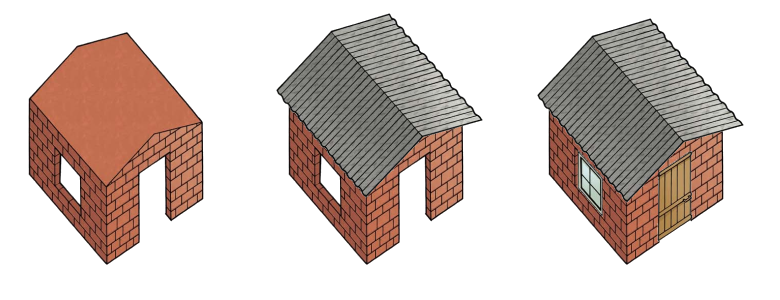
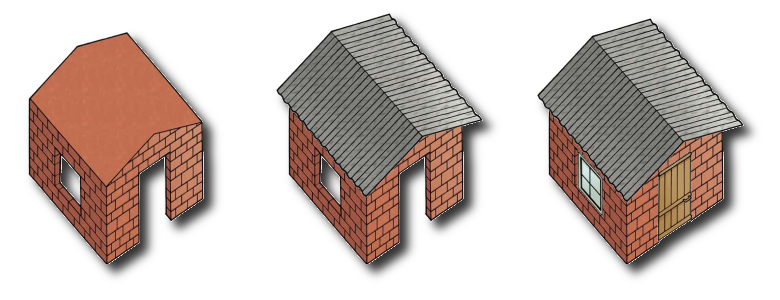
Added shadow effect to some images.

diff --git a/src/Foodforce2.py b/src/Foodforce2.py
@@ -130,8 +130,7 @@ def safe_exit(button = None):
     #print 'in safe_exit'
     #print 'in safe_exit'
     threades.GAME_EXIT_FLAG = True
-    if update_thread:
-        update_thread.join()
+    
     if message_thread:
         message_thread.join()
     sleep(1)
@@ -375,6 +374,7 @@ class starting_intro:
 
         self.next_button.onClick = self.increaseInstructionsCounter
         self.prev_button.onClick = self.decreaseInstructionsCounter
+        self.prev_button.enabled = False
         self.skip_button.onClick = self.close_win
         self.instructions_run = True
         logo =  pygame.image.load(os.path.join('data', 'logo.png')).convert()
@@ -417,12 +417,18 @@ class starting_intro:
             pygame.display.update()
             
     def increaseInstructionsCounter(self,button = None):
+        self.prev_button.enabled = True
         if self.instructions_counter < len(texts.instruction_text)-1:
             self.instructions_counter +=1
+        if self.instructions_counter == len(texts.instruction_text)-1:
+            self.next_button.enabled = False
     
     def decreaseInstructionsCounter(self,button = None):
+        self.next_button.enabled = True
         if self.instructions_counter > 0 :
             self.instructions_counter -=1
+        if self.instructions_counter == 0:
+            self.prev_button.enabled = False
         
 
             
@@ -566,7 +572,7 @@ class starting_intro:
         labelStyleCopy['wordwrap'] = True
         labelStyleCopy['autosize'] = False
         labelStyleCopy['font'] = myfont2
-        labelStyleCopy['font-color'] = self.lightgreen_color
+        labelStyleCopy['font-color'] = self.green_color
         labelStyleCopy['border-color'] = self.black_color
         self.message_label = gui.Label(position = threades.resize_pos((80,80),(600.0,600.0),self.win.size),size = threades.resize_pos((240,70),(600.0,600.0),self.win.size), parent = self.win, text = "Build ", style = labelStyleCopy)
         self.message_label = gui.Label(position = threades.resize_pos((80,130),(600.0,600.0),self.win.size),size = threades.resize_pos((240,70),(600.0,600.0),self.win.size), parent = self.win, text = "Upgrade ", style = labelStyleCopy)
@@ -708,6 +714,8 @@ def facility_placement():
     if y > threades.resize_pt_y(600):
         pygame.mouse.set_pos(x,threades.resize_pt_y(600))
     
+    x -= width_temp/2
+    y -= height_temp/2
     rect = (x,y,width,height)
     rect_temp = (x,y,width_temp,height_temp)
     rect_obj = pygame.Rect(rect)
@@ -732,14 +740,12 @@ def facility_placement():
         threades.set_build_facility_placement_flag()
         gui_buttons.gui_obj.setup_button.enabled = True
             
-update_thread = None
 message_thread = None
 def main():
 
     global panel
     global chat_screen
     global level_setting
-    global update_thread
     global message_thread
     
     cursor = pygame.cursors.load_xbm(os.path.join('art', 'ff2_cursor.xbm'),os.path.join('art', 'ff2_cursor-mask.xbm'))
@@ -781,20 +787,18 @@ def main():
     animation_obj = threades.Animation()
     animation_obj.update()
     # Starting of the threads
-    update_thread = threading.Thread(target = threades.update_turn, args=[])
-    update_thread.start()
     #print update_thread
     message_thread = threading.Thread(target = message_window, args=[])
     message_thread.start()
     mouse_flag = False
     chat_screen=chat.chat()
         
-    
+    clock = pygame.time.Clock()
     # The main infinite loop
     while True:
-        #clock.tick()
+        time_passed = clock.tick(3)
         model.game_controller.update_level_time(threades.update_thread_pause)
-        
+        threades.update_turn(time_passed)
         animation_obj.update()
 
 
@@ -803,23 +807,24 @@ def main():
         (x,y) = (0,0)
         x,y = pygame.mouse.get_pos()
         
-        if len(threades.buildFacilityPlacementFlag):
-            facility_placement()               
-        if (x > (threades.resize_pt_x(890)) and x < threades.resize_pt_x(930)):
-            threades.transform_obj.move_free((-10,0))
-            
-        if x < threades.resize_pt_x(60) :
-            threades.transform_obj.move_free((10,0))
-            
-        if  y > threades.resize_pt_y(560) and y< threades.resize_pt_y(600):
-            threades.transform_obj.move_free((0,-10))
-            
-        if y < threades.resize_pt_y(60):
-            threades.transform_obj.move_free((0,10))
-            
-        if (x > threades.resize_pt_x(0)) and (x < threades.resize_pt_x(600)) and (y > threades.resize_pt_y(845)) and (y < threades.resize_pt_y(900)):
-            mouse_flag = True
-            
+        if not gui_buttons.gui_obj.get_win_flag():
+            if len(threades.buildFacilityPlacementFlag):
+                facility_placement()               
+            if (x > (threades.resize_pt_x(890)) and x < threades.resize_pt_x(930)) and y< threades.resize_pt_y(600):
+                threades.transform_obj.move_free((-10,0))
+                
+            if x < threades.resize_pt_x(60) and y< threades.resize_pt_y(600):
+                threades.transform_obj.move_free((10,0))
+                
+            if  y > threades.resize_pt_y(560) and y< threades.resize_pt_y(600) and x < threades.resize_pt_x(930):
+                threades.transform_obj.move_free((0,-10))
+                
+            if y < threades.resize_pt_y(60) and x < threades.resize_pt_x(930) and x < threades.resize_pt_x(930):
+                threades.transform_obj.move_free((0,10))
+                
+            if (x > threades.resize_pt_x(0)) and (x < threades.resize_pt_x(600)) and (y > threades.resize_pt_y(845)) and (y < threades.resize_pt_y(900)):
+                mouse_flag = True
+                
         pygame.display.set_caption('FoodForce2')
 
         for e in gui.setEvents(pygame.event.get()):

diff --git a/src/load_images.py b/src/load_images.py
@@ -43,13 +43,16 @@ class Spritesheet:
         @type colorkey integer
         """
         rect = Rect(rect)
-        image = pygame.Surface(rect.size).convert()
-        image.blit(self.sheet, (0, 0), rect)
-        
+        #print rect
+        image = self.sheet.subsurface(rect)
+        #image.blit(self.sheet, (0, 0), rect)
+        '''
         if colorkey is not None:
             if colorkey is -1:
                 colorkey = image.get_at((0, 0))
+                
             image.set_colorkey(colorkey, RLEACCEL)
+        '''
         return image
             
     def imgsat(self, rects, colorkey = None):
@@ -130,9 +133,9 @@ def load_images():
     
     # Loading images of People
     ss = Spritesheet('People.png')
-    Man_tiles.append(ss.imgsat([(0,0,60,115),(60,1,60,115),(120,0,60,115),(60,1,60,115),    (0,117,60,113),(62,117,60,115),(120,117,60,112),(62,117,60,113),  (172,116,60,115),(172,116,60,115),(172,116,60,115),(172,116,60,115),  (170,0,60,115),(170,0,60,115),(170,0,60,115),(170,0,60,115)],-1))
+    Man_tiles.append(ss.imgsat([(0,0,60,115),(60,1,60,115),(120,0,60,115),(60,1,60,115),    (0,117,60,113),(62,117,60,113),(120,117,60,112),(62,117,60,113),  (172,116,60,114),(172,116,60,114),(172,116,60,114),(172,116,60,114),  (170,0,60,115),(170,0,60,115),(170,0,60,115),(170,0,60,115)],-1))
     
-    Woman_tiles.append(ss.imgsat([(225,0,60,115),(287,0,60,115),(346,0,60,115),(287,0,60,115),  (230,117,60,115),(288,117,60,115),(343,117,60,115),(288,117,60,115),  (398,115,60,115),(398,115,60,115),(398,115,60,115),(398,115,60,115),  (397,0,60,115),(397,0,60,115),(397,0,60,115),(397,0,60,115)],-1))
+    Woman_tiles.append(ss.imgsat([(225,0,60,115),(287,0,60,115),(346,0,60,115),(287,0,60,115),  (230,117,60,113),(288,117,60,113),(343,117,60,113),(288,117,60,113),  (398,115,60,115),(398,115,60,115),(398,115,60,115),(398,115,60,115),  (397,0,60,115),(397,0,60,115),(397,0,60,115),(397,0,60,115)],-1))
     
     Boy_tiles.append(ss.imgsat([(455,26,45,74),(517,26,45,74),(575,26,45,74),(517,26,45,74),  (455,130,45,74),(517,130,45,74),(575,130,45,74),(517,130,45,74),  (621,133,45,74),(621,133,45,74),(621,133,45,74),(621,133,45,74),  (621,26,45,74),(621,26,45,74),(621,26,45,74),(621,26,45,74)],-1))
     
@@ -297,9 +300,9 @@ def load_images_ppl():
     
     # Loading images of People
     ss = Spritesheet('People.png')
-    Man_tiles.append(ss.imgsat([(0,0,60,115),(60,1,60,115),(120,0,60,115),(60,1,60,115),    (0,117,60,113),(62,117,60,115),(120,117,60,112),(62,117,60,113),  (172,116,60,115),(172,116,60,115),(172,116,60,115),(172,116,60,115),  (170,0,60,115),(170,0,60,115),(170,0,60,115),(170,0,60,115)],-1))
+    Man_tiles.append(ss.imgsat([(0,0,60,115),(60,1,60,115),(120,0,60,115),(60,1,60,115),    (0,117,60,113),(62,117,60,113),(120,117,60,112),(62,117,60,113),  (172,116,60,114),(172,116,60,114),(172,116,60,114),(172,116,60,114),  (170,0,60,115),(170,0,60,115),(170,0,60,115),(170,0,60,115)],-1))
     
-    Woman_tiles.append(ss.imgsat([(225,0,60,115),(287,0,60,115),(346,0,60,115),(287,0,60,115),  (230,117,60,115),(288,117,60,115),(343,117,60,115),(288,117,60,115),  (398,115,60,115),(398,115,60,115),(398,115,60,115),(398,115,60,115),  (397,0,60,115),(397,0,60,115),(397,0,60,115),(397,0,60,115)],-1))
+    Woman_tiles.append(ss.imgsat([(225,0,60,115),(287,0,60,115),(346,0,60,115),(287,0,60,115),  (230,117,60,113),(288,117,60,113),(343,117,60,113),(288,117,60,113),  (398,115,60,115),(398,115,60,115),(398,115,60,115),(398,115,60,115),  (397,0,60,115),(397,0,60,115),(397,0,60,115),(397,0,60,115)],-1))
     
     Boy_tiles.append(ss.imgsat([(455,26,45,74),(517,26,45,74),(575,26,45,74),(517,26,45,74),  (455,130,45,74),(517,130,45,74),(575,130,45,74),(517,130,45,74),  (621,133,45,74),(621,133,45,74),(621,133,45,74),(621,133,45,74),  (621,26,45,74),(621,26,45,74),(621,26,45,74),(621,26,45,74)],-1))
     

diff --git a/src/threades.py b/src/threades.py
@@ -57,7 +57,7 @@ except:
     
     new_screen_size = [800,600]
     
-#new_screen_size = [800,600]
+#new_screen_size = [1200,900]
 
 global screen   
 if model.FLAG_XO:
@@ -659,8 +659,8 @@ def calculate_indicators_starting():
     ppl_emp = model.ppl.get_total_no_of_ppl_emp()/model.ppl.get_total_population()
     model.Training.turn({ 'LEVEL OF WORKSHOPS' : level , 'EMPLOYED PEOPLE IN WORKSHOP' : ppl_emp , 'EMPLOYED PEOPLE IN FARM' : ppl_emp , 'EMPLOYED PEOPLE IN HOSPITAL' : ppl_emp , 'EMPLOYED PEOPLE IN CONSTRUCTION' : ppl_emp })
 
-            
-def update_turn(delay = 15):
+update_turn_time = 0         
+def update_turn(delay = 0):
     ''' Updates the model.resources, facilities, manpower model.resources and indicators
     at each turn
     '''
@@ -673,10 +673,11 @@ def update_turn(delay = 15):
     global Health
     global Water
     global School
+    global update_turn_time
 
-
+    update_turn_time += delay
     
-    while True:
+    if update_turn_time>15000:
         
         if update_thread_pause == True:
 
@@ -782,54 +783,7 @@ def update_turn(delay = 15):
             ppl_emp = model.ppl.get_total_no_of_ppl_emp()/model.ppl.get_total_population()
             model.Training.turn({ 'LEVEL OF WORKSHOPS' : level , 'EMPLOYED PEOPLE IN WORKSHOP' : ppl_emp , 'EMPLOYED PEOPLE IN FARM' : ppl_emp , 'EMPLOYED PEOPLE IN HOSPITAL' : ppl_emp , 'EMPLOYED PEOPLE IN CONSTRUCTION' : ppl_emp })
 
-            if GAME_EXIT_FLAG:
-                return
-                
-        sleep(1)
-        if GAME_EXIT_FLAG:
-            return
-        sleep(1)
-        if GAME_EXIT_FLAG:
-            return
-        sleep(1)
-        if GAME_EXIT_FLAG:
-            return
-        sleep(1)
-        if GAME_EXIT_FLAG:
-            return
-        sleep(1)
-        if GAME_EXIT_FLAG:
-            return
-        sleep(1)
-        if GAME_EXIT_FLAG:
-            return
-        sleep(1)
-        if GAME_EXIT_FLAG:
-            return
-        sleep(1)
-        if GAME_EXIT_FLAG:
-            return
-        sleep(1)
-        if GAME_EXIT_FLAG:
-            return
-        sleep(1)
-        if GAME_EXIT_FLAG:
-            return
-        sleep(1)
-        if GAME_EXIT_FLAG:
-            return
-        sleep(1)
-        if GAME_EXIT_FLAG:
-            return
-        sleep(1)
-        if GAME_EXIT_FLAG:
-            return
-        sleep(1)
-        if GAME_EXIT_FLAG:
-            return
-        sleep(1)
-        if GAME_EXIT_FLAG:
-            return
+            update_turn_time =0
 
 
 

diff --git a/src/gui.py b/src/gui.py
@@ -367,18 +367,19 @@ class Widget(object):
             if not pygame.mouse.b1:
                 if self == topmost and not self.mouseover:
                     self._getMouseOver()
+		    
                 elif self != topmost and self.mouseover:
                     self._loseMouseOver()
-            
+		    
             #Checks if mouse is over and button is pressed   
             if self.mouseover and mouse.b1 and not self.mousedown:
-                #Sets the button is pressed
+		#Sets the button is pressed
                 self.mousedown = True
                 
                 #Calls on mouse down event if present
                 if self.onMouseDown:
                     self.onMouseDown(self)
-                
+		    
                 #Refreshes if he wants
                 if self.REFRESH_ON_MOUSE_DOWN:
                     self.needsRefresh = True
@@ -392,7 +393,7 @@ class Widget(object):
                     self.mouseclick = True
                     
                     if self.onClick:
-                        self.onClick(self)
+			self.onClick(self)
                 
                 if self.REFRESH_ON_MOUSE_CLICK:
                     self.needsRefresh = True
